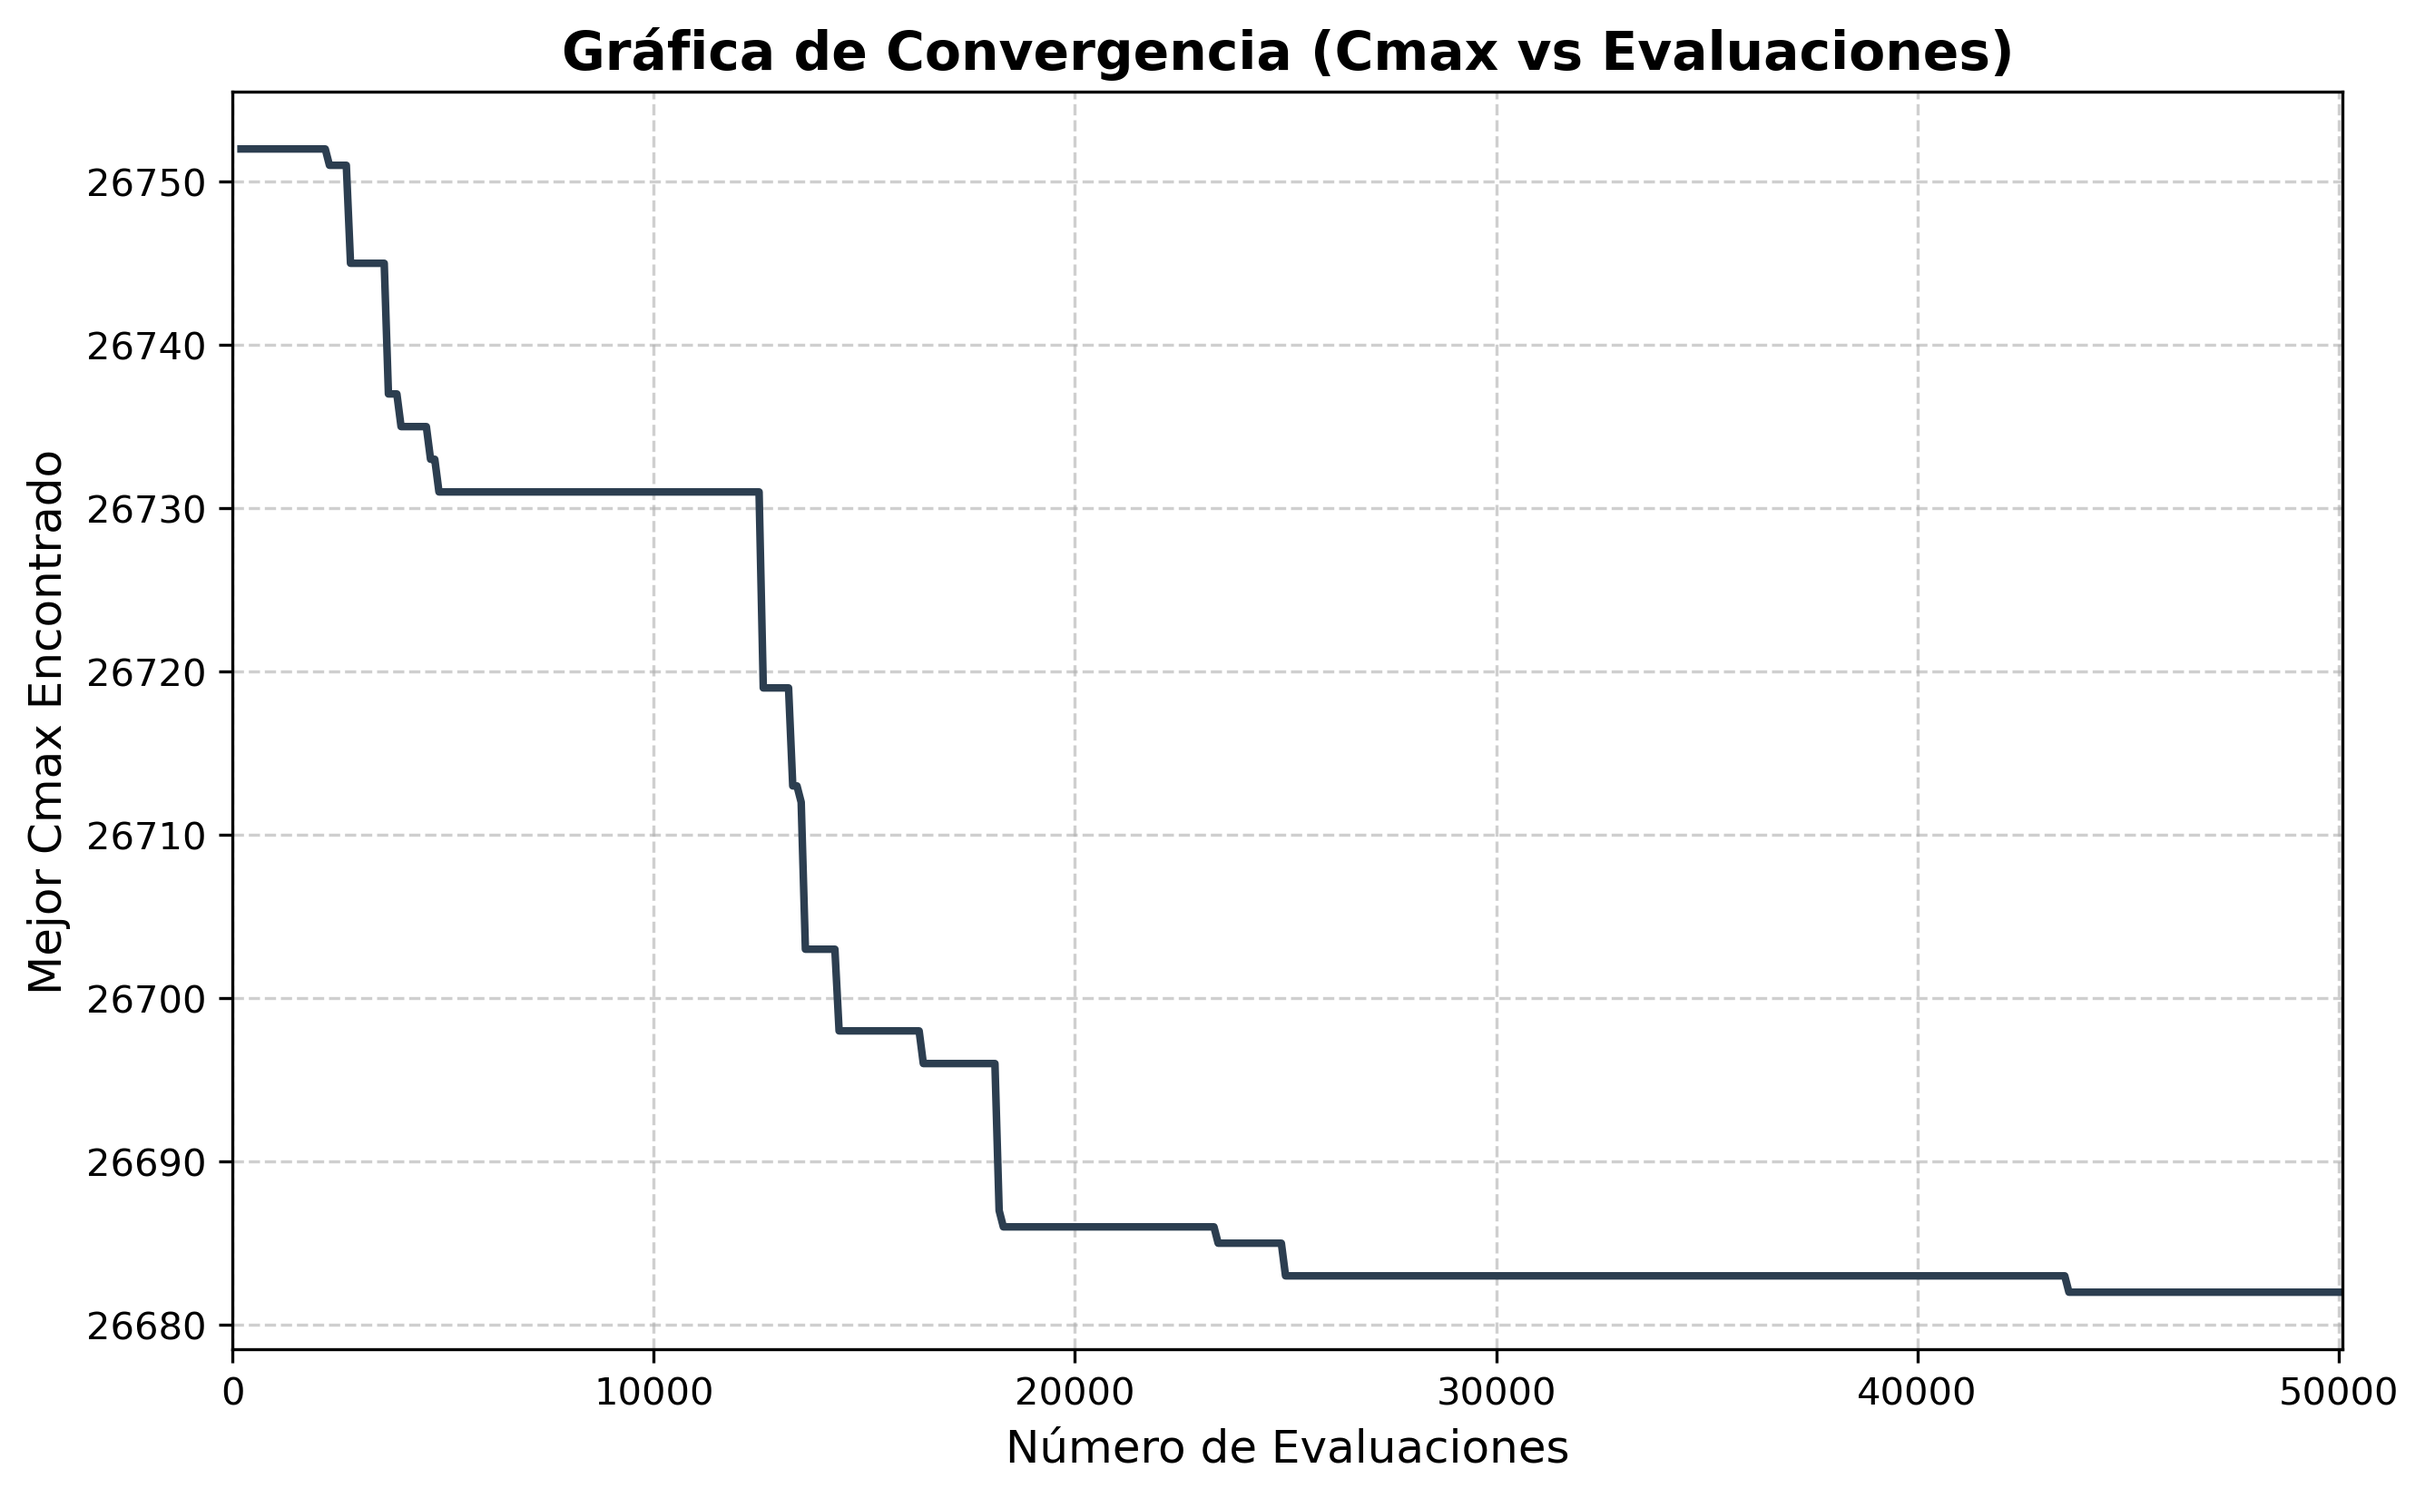
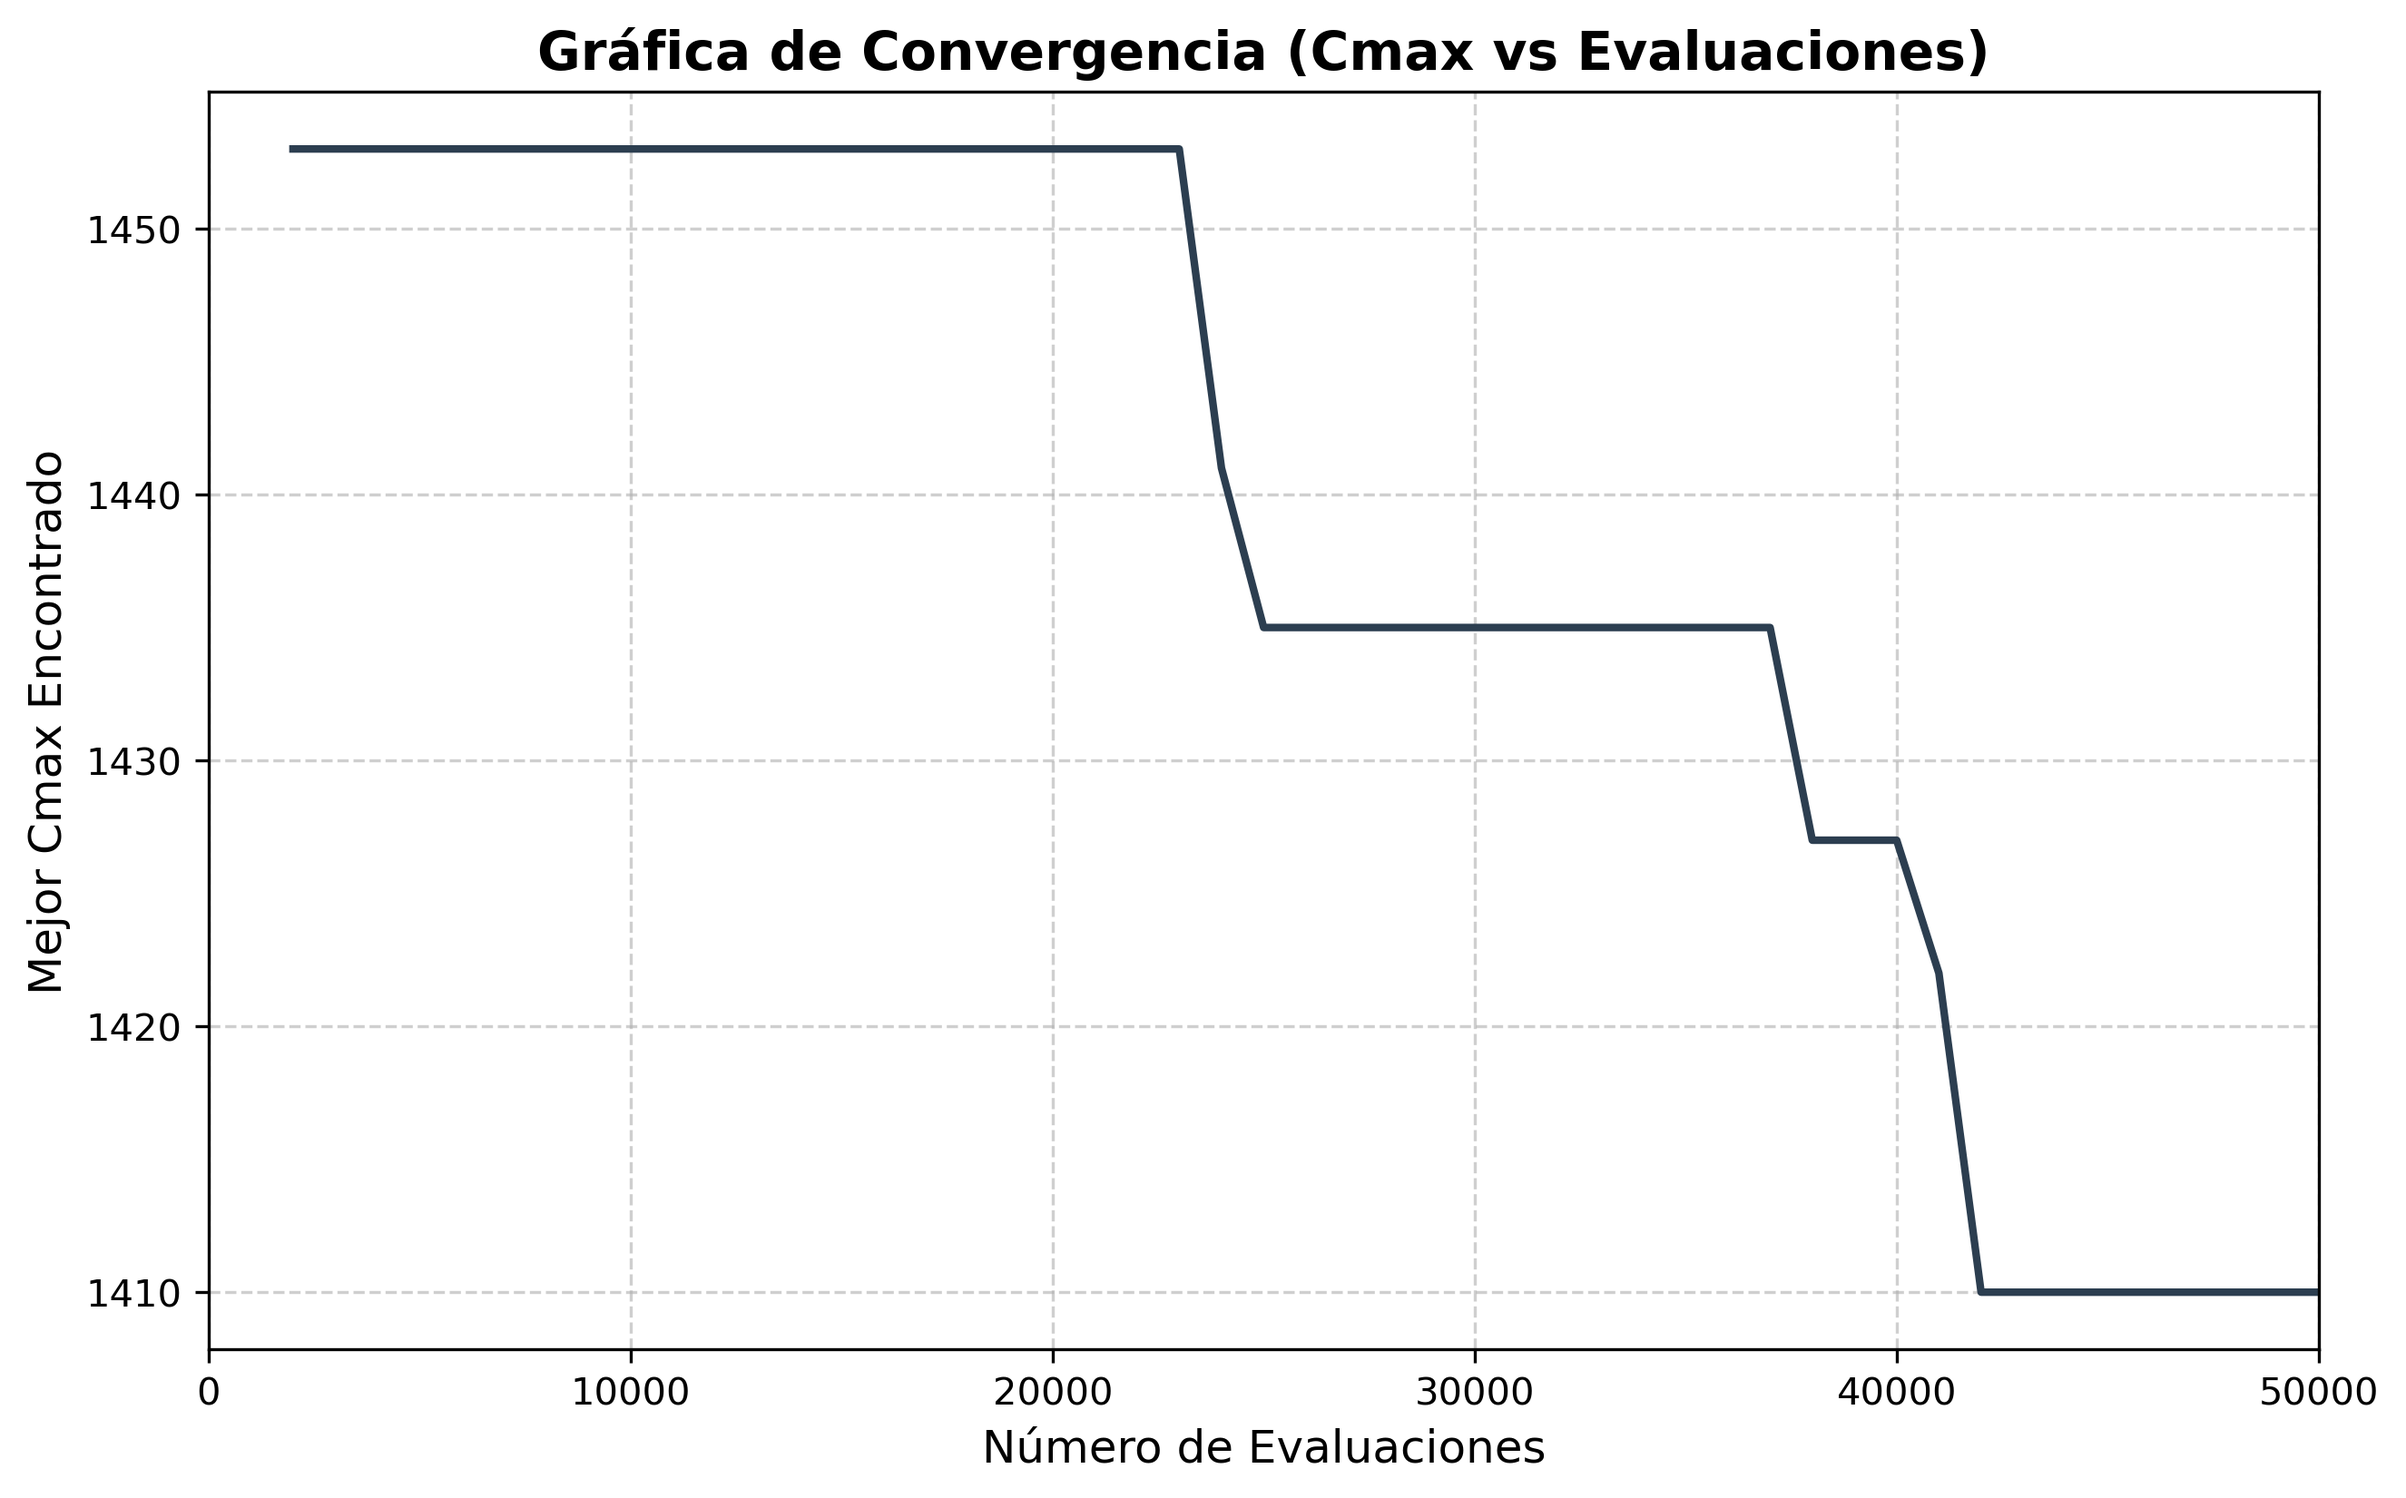
Practica 2: Arreglo iteraciones y calculo RPD

diff --git a/prct02/Original/src/algoritmoGenetico.cc b/prct02/Original/src/algoritmoGenetico.cc
@@ -23,7 +23,8 @@ void AlgoritmoGenetico::InicializarPoblacion() {
   poblacion_.reserve(tam_poblacion_);
   poblacion_.push_back(AlgoritmosReferencias::Alg_NEH(instancia_));
   solucion_ = poblacion_.front();
-  for (int i{1}; i < tam_poblacion_; i++) {
+  n_evaluaciones_makespan_++;
+  for (int i{1}; i < tam_poblacion_ && n_evaluaciones_makespan_ < presupuesto_max_; i++) {
     std::vector<int> tareas(instancia_.Get_NTareas());
     std::iota(tareas.begin(), tareas.end(), 1);
     std::shuffle(tareas.begin(), tareas.end(), gen_);
@@ -137,7 +138,6 @@ void AlgoritmoGenetico::Mutacion(Solucion& solucion) {
     int origen = distribucion(gen_);
     int destino = distribucion(gen_);
     while (origen == destino) {
-      origen = distribucion(gen_);
       destino = distribucion(gen_);
     }
     std::vector<int> permutacion_mutada = solucion.Get_Permutacion();
@@ -197,8 +197,9 @@ void AlgoritmoGenetico::Ejecutar(bool guardar_convergencia) {
   while( n_evaluaciones_makespan_ < presupuesto_max_) {
     std::vector<Solucion> nueva_generacion;
     nueva_generacion.reserve(tam_poblacion_);
-    // Hacemos la mitad de iteraciones pq en cada cruce nacen 2 hijos
-    for (int i{0}; i < tam_poblacion_ / 2; i++) { 
+    size_t limite_descendencia = static_cast<size_t>(std::min(
+        tam_poblacion_, presupuesto_max_ - n_evaluaciones_makespan_));
+    while (nueva_generacion.size() < limite_descendencia) {
       Solucion padre1 = SeleccionTorneo();
       Solucion padre2 = SeleccionTorneo();
       Solucion hijo1;
@@ -216,7 +217,9 @@ void AlgoritmoGenetico::Ejecutar(bool guardar_convergencia) {
       Mutacion(hijo1);
       Mutacion(hijo2);
       nueva_generacion.emplace_back(hijo1);
-      nueva_generacion.emplace_back(hijo2);
+      if (nueva_generacion.size() < limite_descendencia) {
+        nueva_generacion.emplace_back(hijo2);
+      }
     }
     Reemplazo(std::move(nueva_generacion));
     if (guardar_convergencia) {

diff --git a/prct02/Original/src/main.cc b/prct02/Original/src/main.cc
@@ -29,7 +29,7 @@ struct Configuracion {
 /**
  * @brief Lee los parámetros de la línea de comandos y la instancia del fichero.
  *
- * Los argumentos esperados son: @c archivo N E K Pc Pm. El fichero de la
+ * Los argumentos esperados son: @c archivo N E K Pc Pm [semilla]. El fichero de la
  * instancia tiene una primera línea de cabecera que se ignora, una segunda con
  * número de trabajos, número de máquinas, semilla, cota superior y cota
  * inferior, una tercera línea que se ignora y, por último, la matriz de
@@ -131,8 +131,8 @@ int main(int argc, char* argv[]) {
     sumatoria += pow(resultados_cmax[i] - promedio_cmax, 2);
   }
   double desviacion_estandar = sqrt(sumatoria / resultados_cmax.size());
-  double rpd_ub = ((BestCmax - datos.upper_bound) / (double)datos.upper_bound) * 100.0;
-  double rpd_neh = ((BestCmax - (double)CmaxNEH.Get_Makespan()) / (double)CmaxNEH.Get_Makespan()) * 100;
+  double rpd_ub = ((promedio_cmax - datos.upper_bound) / datos.upper_bound) * 100.0;
+  double rpd_neh = ((promedio_cmax - (double)CmaxNEH.Get_Makespan()) / (double)CmaxNEH.Get_Makespan()) * 100;
   std::ofstream FicheroSalida("tabla_resultados.csv", std::ios::app);
   FicheroSalida << argv[1] << "," << datos.instancia.Get_NTareas() << "," << datos.instancia.Get_NMaquinas() << "," << BestCmax 
                 << "," << promedio_cmax << "," << desviacion_estandar << "," << CmaxNEH.Get_Makespan() << "," << rpd_ub 
